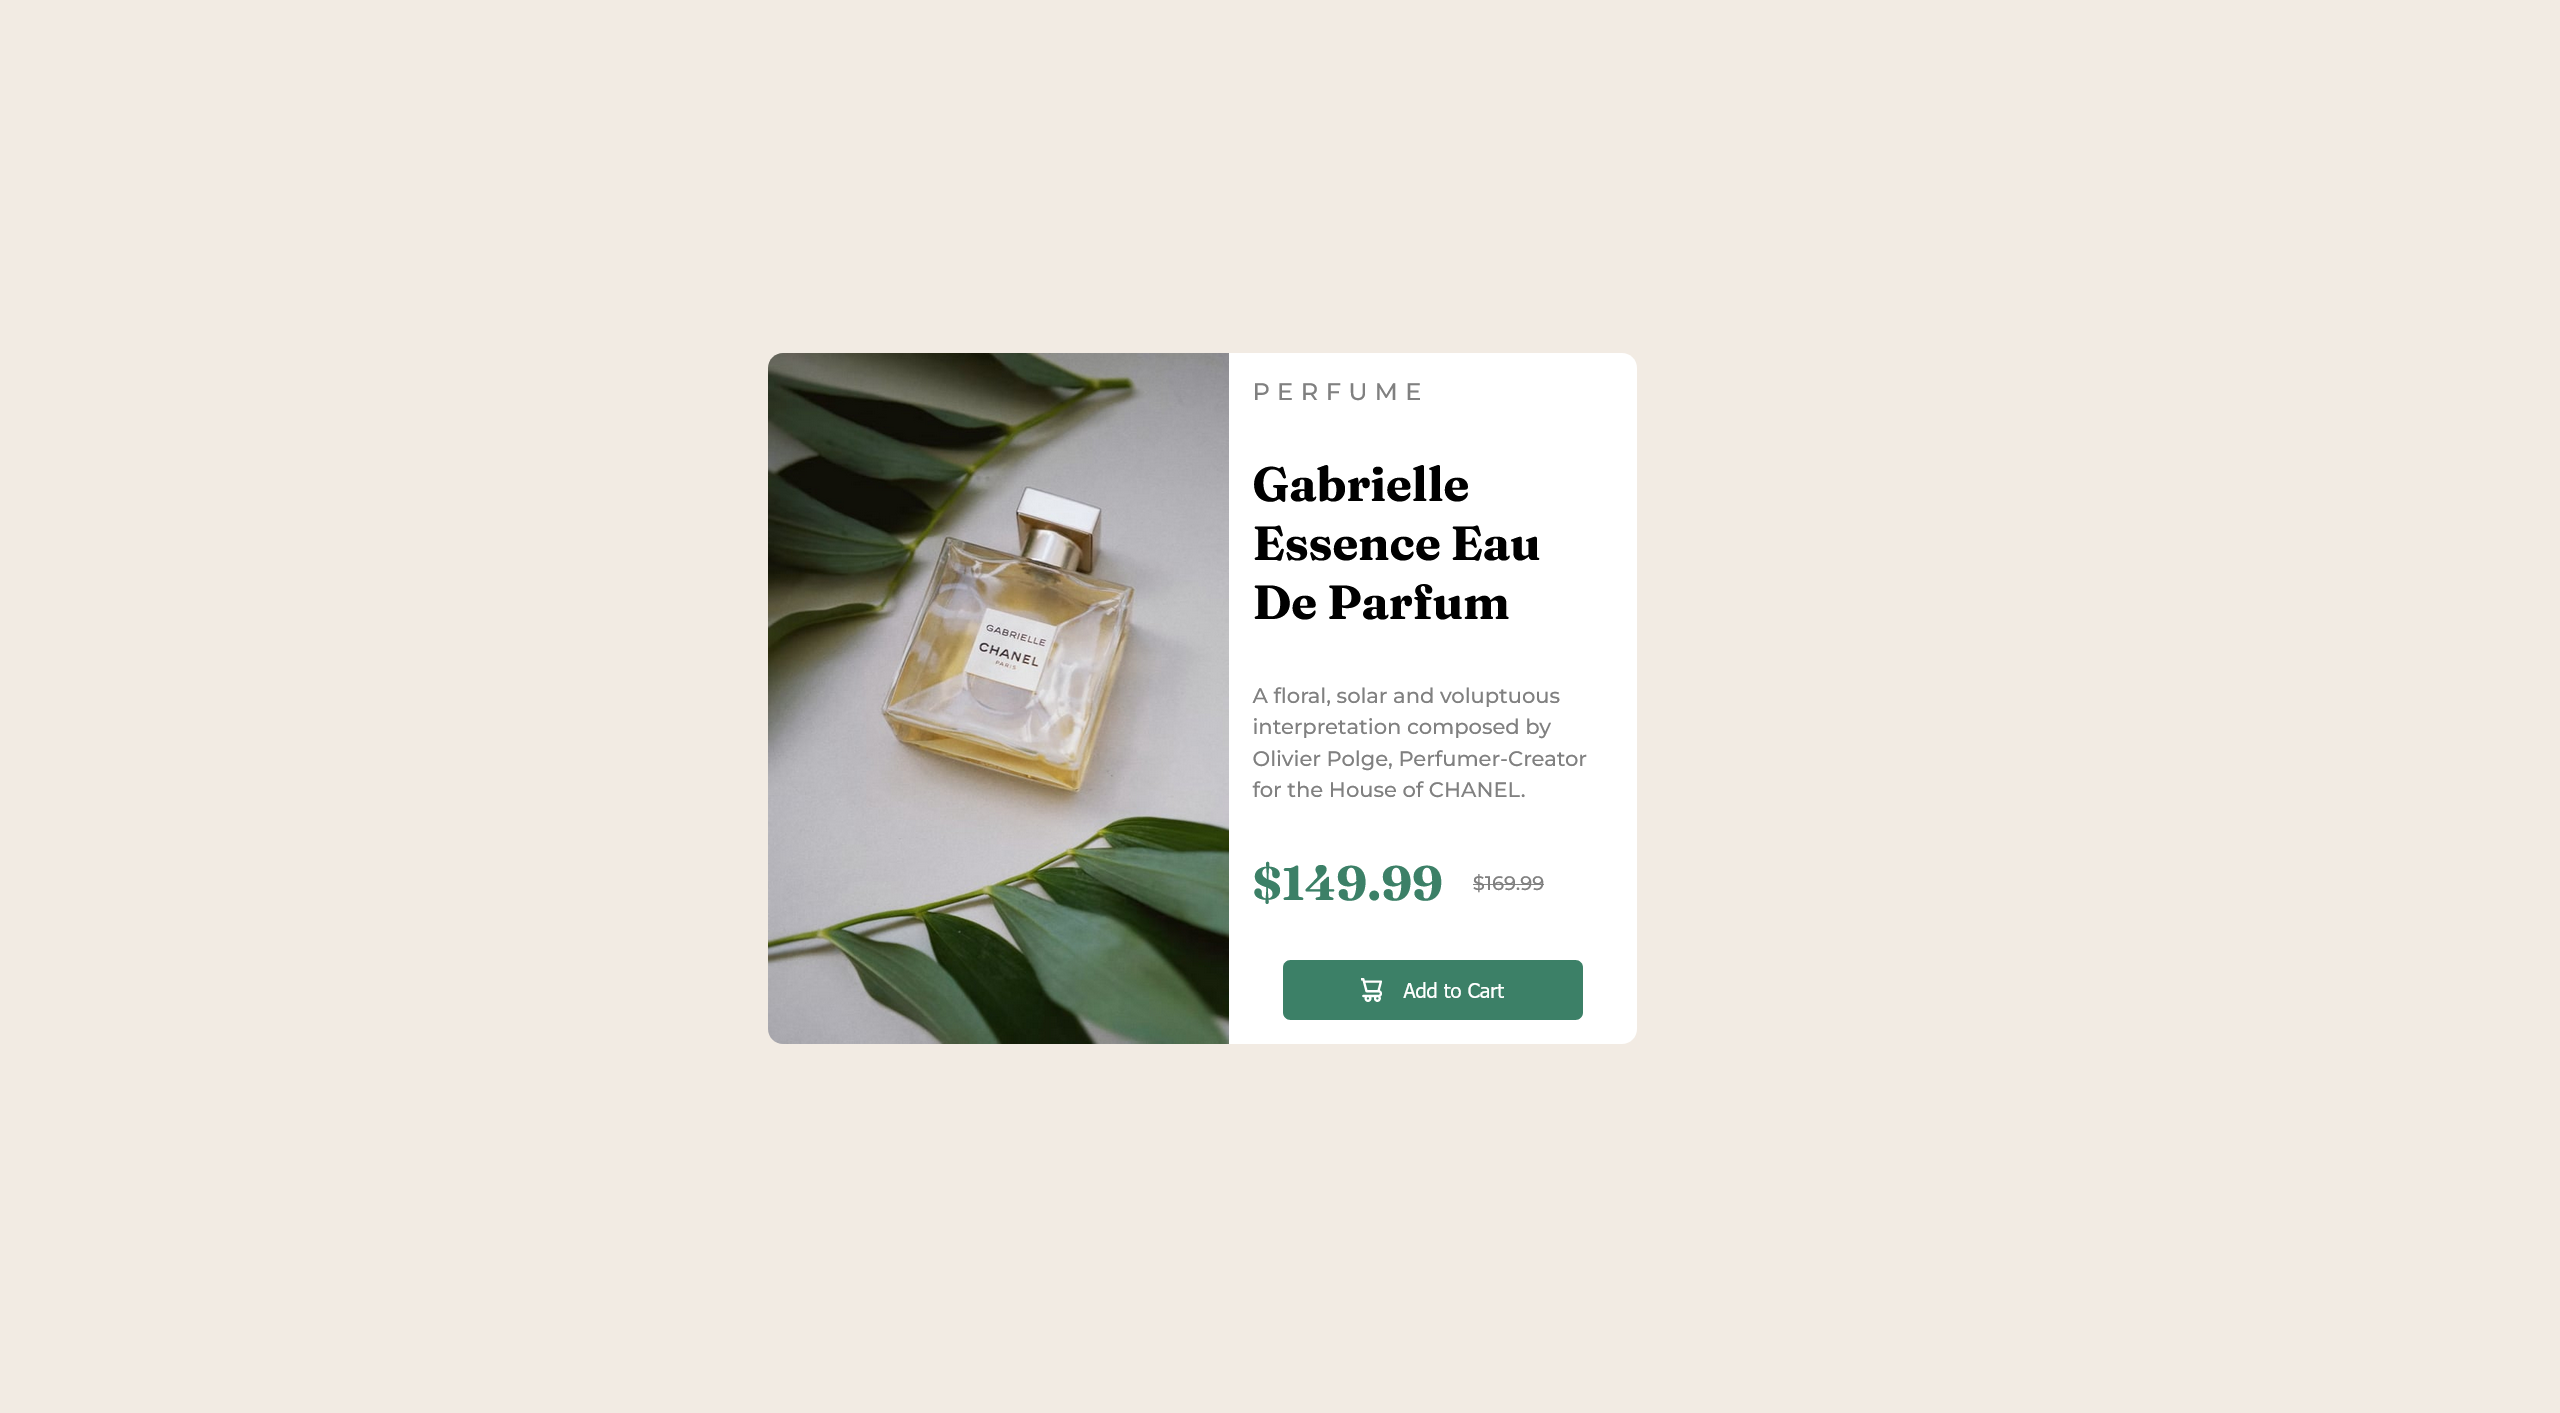
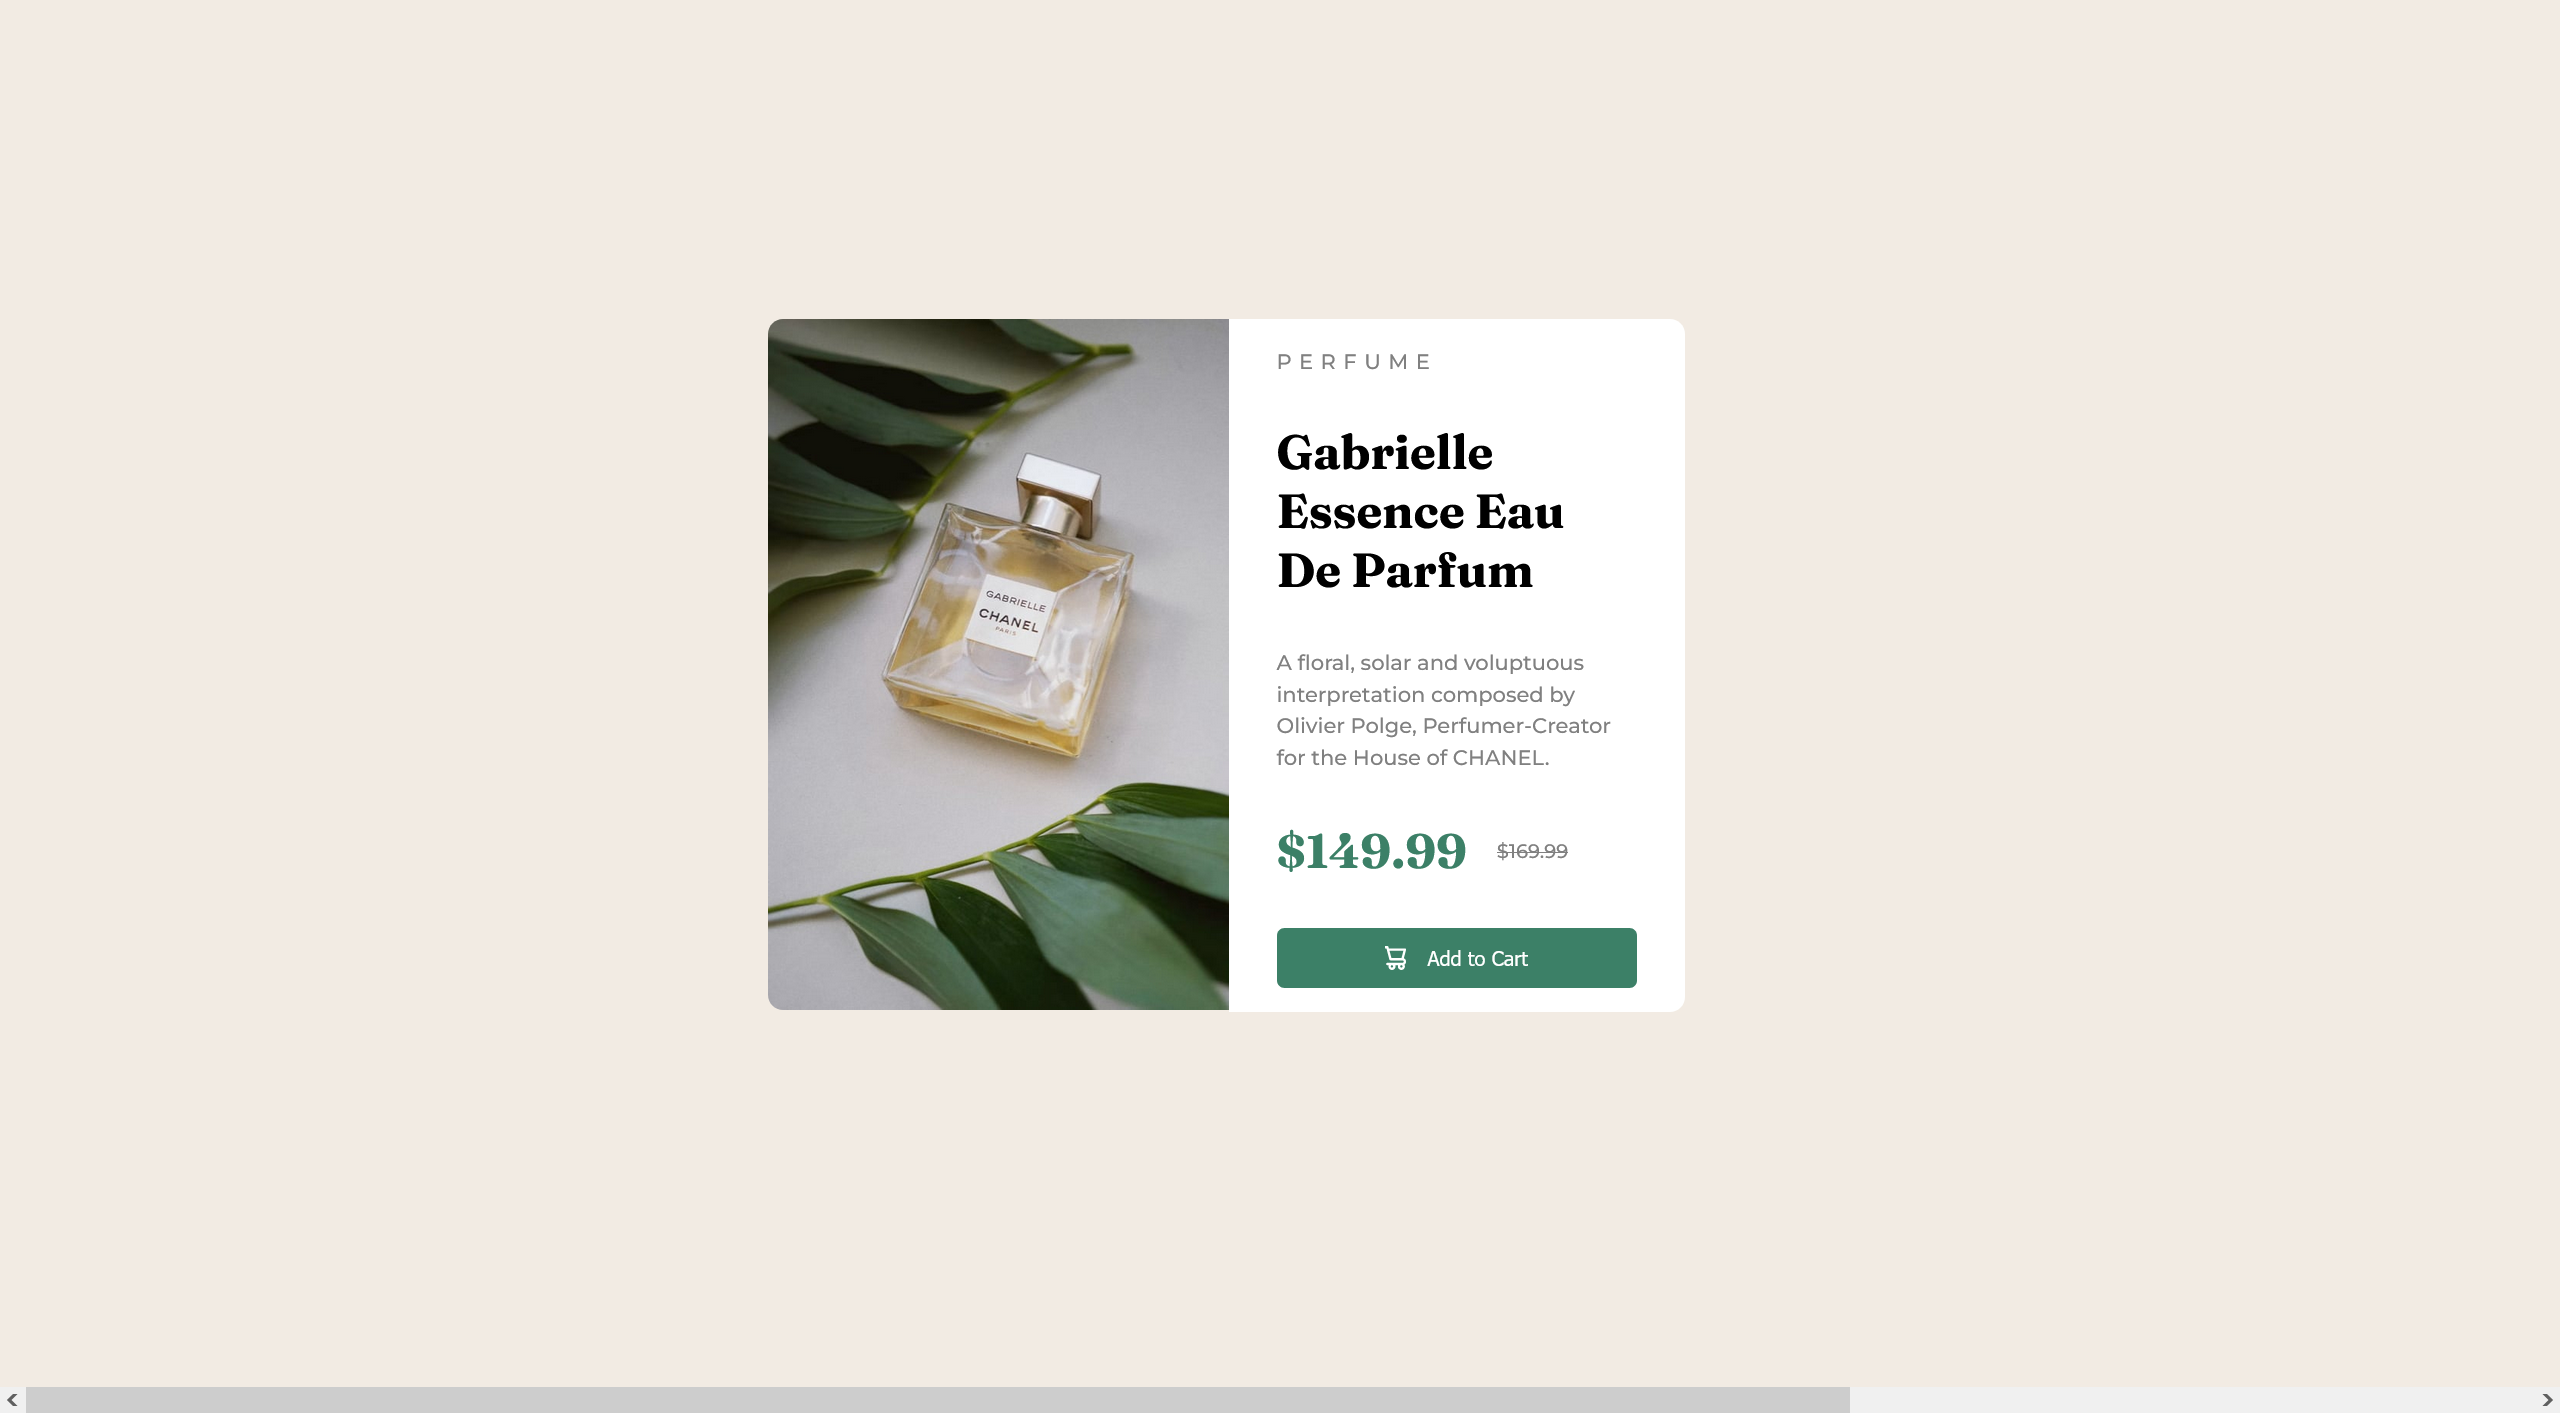
Add Channel Changes

Changed region(s): [[0.2812, 0.218, 0.6562, 0.7473], [0.0, 0.9653, 0.75, 1.0]]

diff --git a/styles.css b/styles.css
@@ -263,8 +263,10 @@ button {
 }
 
 .preview {
-  font-family: Monserrate500, sans-serif;
+  font-family: Monserrate500;
   letter-spacing: 5px;
+  margin-top: 4px;
+
 }
 
 .styleinfo {
@@ -288,12 +290,6 @@ button:hover {
     top: 23%;
     left: 30%;
     width: 100%;
-  }
-
-  button {
-    width: 15em;
-    position: relative;
-    left: 20px;
   }
 
   .img-fluid {
